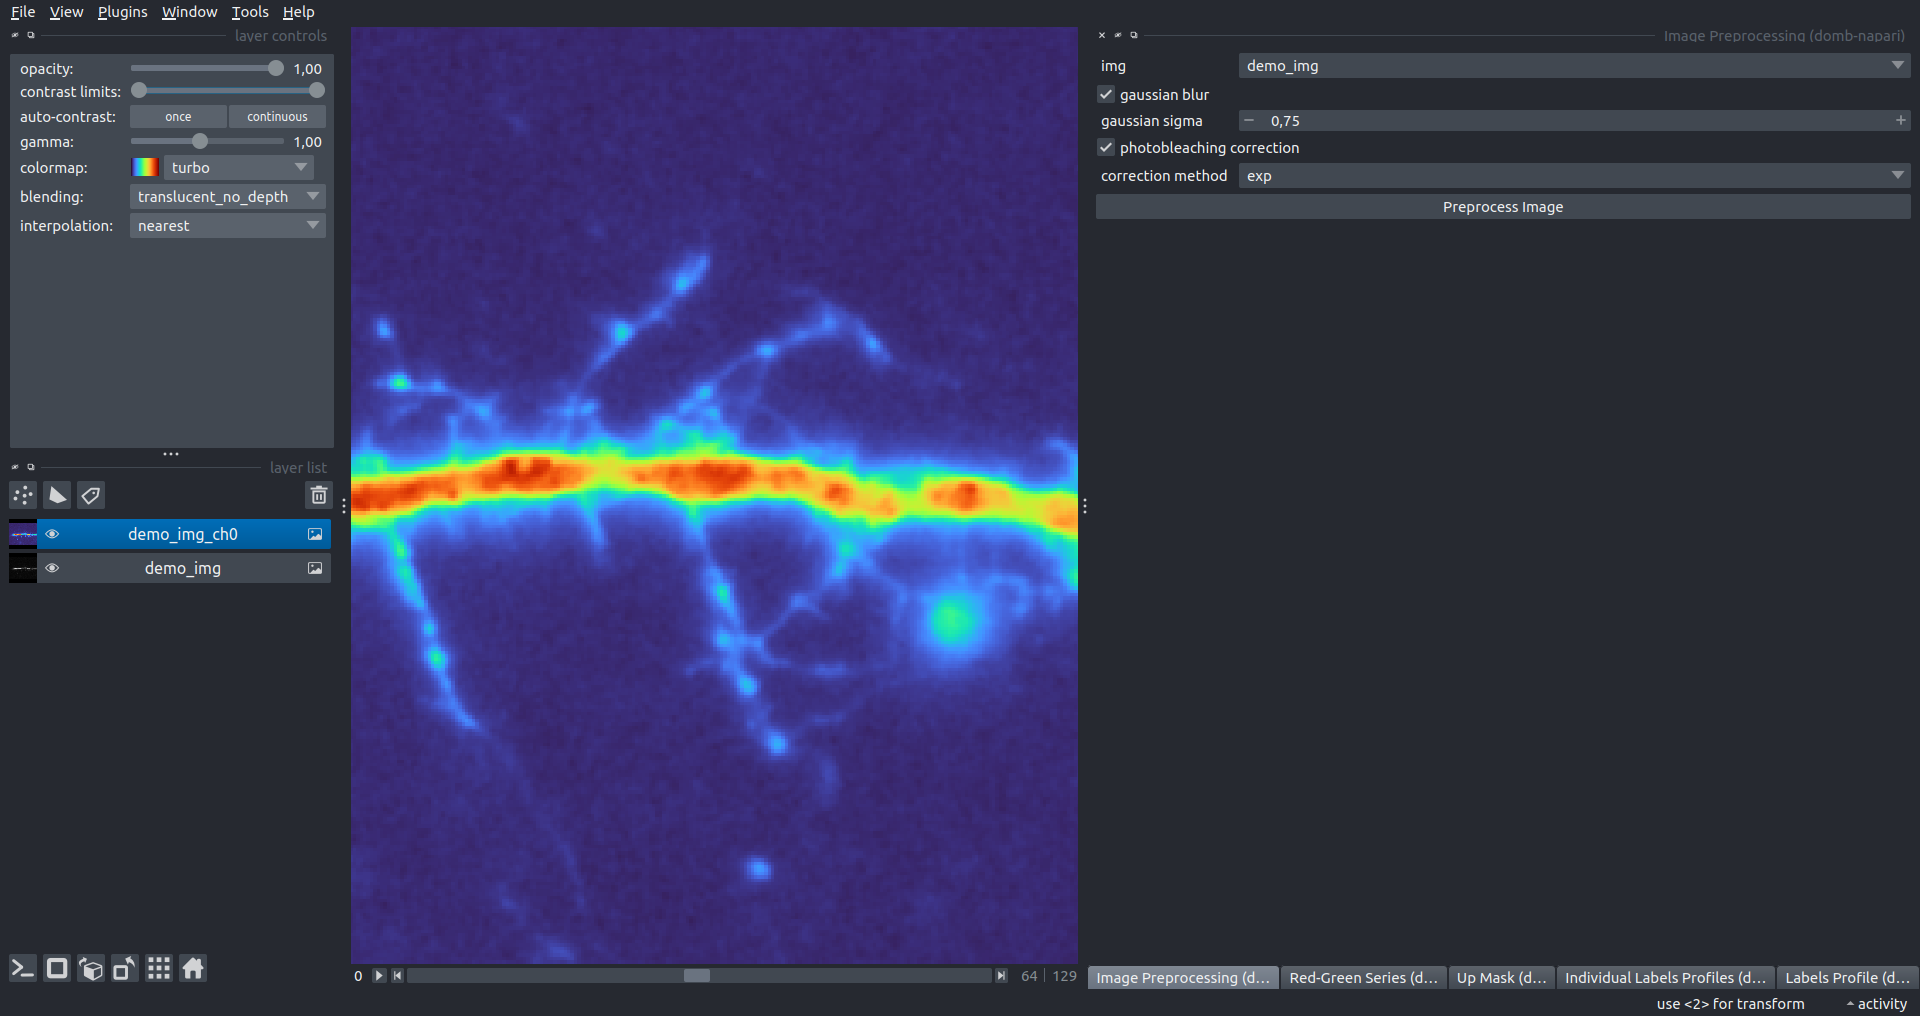
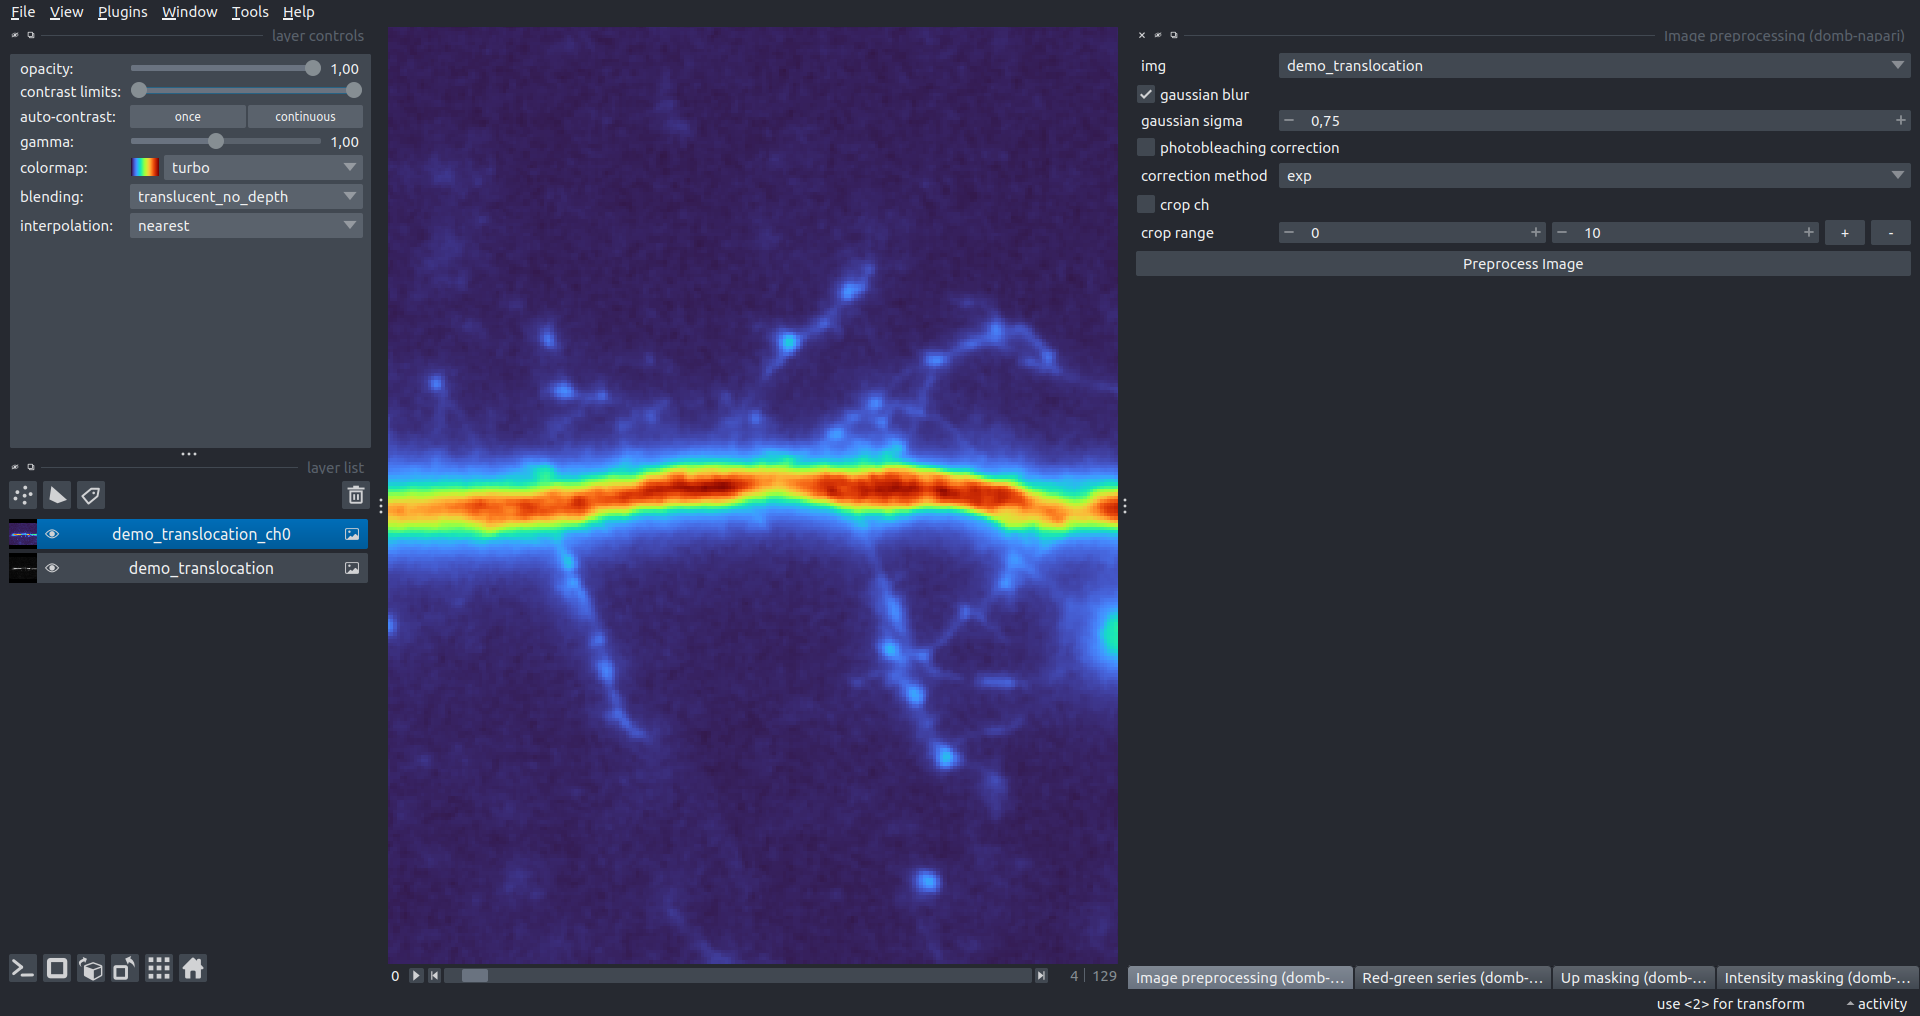
29.02.2024: REDME update

Changed region(s): [[0.0625, 0.0305, 1.0, 0.9764], [0.3438, 0.9459, 0.375, 0.9764], [0.0938, 0.122, 0.125, 0.1526]]

diff --git a/src/domb_napari/_widget.py b/src/domb_napari/_widget.py
@@ -166,7 +166,7 @@ def der_series(viewer: Viewer, img:Image,
             raise ValueError('The input image should have 3 dimensions!')
         img_name = img.name + '_red-green'
 
-        def _save_rg(img):
+        def _save_rg_img(img):
             try: 
                 viewer.layers[img_name].data = img
             except KeyError:
@@ -174,7 +174,7 @@ def der_series(viewer: Viewer, img:Image,
                 new_image = viewer.add_image(img, name=img_name, contrast_limits=[-c_lim, c_lim])
                 new_image.colormap = 'red-green', _red_green()
 
-        @thread_worker(connect={'yielded':_save_rg})
+        @thread_worker(connect={'yielded':_save_rg_img})
         def _der_series():
             ref_img = img.data
 
@@ -200,34 +200,46 @@ def der_series(viewer: Viewer, img:Image,
                insertion_threshold={"widget_type": "FloatSlider", 'max': 1},)  # insertions_threshold={'widget_type': 'FloatSlider', 'max': 1}
 def up_mask_calc(viewer: Viewer, img:Image, detection_img_index:int=2,
                  insertion_threshold:float=0.2,
+                 opening_footprint:int=0,
                  save_mask:bool=False):
     if input is not None:
         if img.data.ndim != 3:
-            raise ValueError('The input image should have 2 dimensions!')
-        input_img = img.data
-        detection_img = input_img[detection_img_index]
-        
-        up_mask = detection_img >= np.max(np.abs(detection_img)) * insertion_threshold
-        up_mask = morphology.opening(up_mask, footprint=morphology.disk(1))
-        up_mask = ndi.binary_fill_holes(up_mask)
-        up_mask = up_mask.astype(int)
-        up_labels = measure.label(up_mask)
-        print(f'Up mask shape: {up_mask.shape}, detected {np.max(up_labels)} labels')
-            
+            raise ValueError('The input image should have 3 dimensions!')
         labels_name = img.name + '_up-labels'
-        try:
-            viewer.layers[labels_name].data = up_labels
-        except KeyError:
-            viewer.add_labels(up_labels, name=labels_name, opacity=0.6)
+        mask_name = img.name + '_up-mask'
 
-        if save_mask:
-            mask_name = img.name + '_up-mask'
+        def _save_up_labels(params):
+            lab = params[0]
+            name = params[1]
             try:
-                viewer.layers[mask_name].data = up_mask
+                viewer.layers[name].data = lab
             except KeyError:
-                viewer.add_labels(up_mask, name=mask_name,
-                                num_colors=1, color={1:(255,0,0,255)},
-                                opacity=0.6)
+                new_labels = viewer.add_labels(lab, name=name, opacity=1)
+                new_labels.contour = 1
+
+        @thread_worker(connect={'yielded':_save_up_labels})
+        def _up_mask_calc():
+            input_img = img.data
+            detection_img = input_img[detection_img_index]
+            
+            up_mask = detection_img >= np.max(np.abs(detection_img)) * insertion_threshold
+            up_mask = morphology.erosion(up_mask, footprint=morphology.disk(2))
+            up_mask = morphology.dilation(up_mask, footprint=morphology.disk(1))
+            up_mask = ndi.binary_fill_holes(up_mask)
+            up_mask = up_mask.astype(int)
+
+            if opening_footprint != 0:
+                up_mask = morphology.opening(up_mask, footprint=morphology.disk(opening_footprint))
+                up_mask = morphology.dilation(up_mask, footprint=morphology.disk(1))
+
+            up_labels = measure.label(up_mask)
+            show_info(f'{img.name}: detected {np.max(up_labels)} labels')
+
+            yield (up_labels, labels_name)
+            if save_mask:
+                yield (up_mask, mask_name)
+
+        _up_mask_calc()                
 
 
 @magic_factory(call_button='Build Mask',
@@ -235,56 +247,62 @@ def up_mask_calc(viewer: Viewer, img:Image, detection_img_index:int=2,
 def mask_calc(viewer: Viewer, img:Image, detection_frame_index:int=2,
               masking_mode:str='up',
               up_threshold:float=0.2,
-              down_threshold:float=-0.1):
+              down_threshold:float=-0.9,
+              opening_footprint:int=0):
     if input is not None:
         if img.data.ndim != 3:
             raise ValueError('The input image should have 3 dimensions!')
-        input_img = img.data
-        detection_img = input_img[detection_frame_index]
 
         if masking_mode == 'up':
-            mask = detection_img >= np.max(np.abs(detection_img)) * up_threshold
             labels_name = img.name + '_up-labels'
-            # mask_name = img.name + '_up-mask'
         elif masking_mode == 'down':        
-            mask = detection_img <= np.max(np.abs(detection_img)) * down_threshold
             labels_name = img.name + '_down-labels'
-            # mask_name = img.name + '_down-mask'
 
-        mask = morphology.opening(mask, footprint=morphology.disk(3))
-        mask = ndi.binary_fill_holes(mask)
-        mask = mask.astype(int)
-        labels = measure.label(mask)
-
-        mask_info = f'{img.name}: detected {np.max(labels)} labels'
-        print(mask_info)
-        show_info(mask_info)
-            
-        try:
-            viewer.layers[labels_name].data = labels
-        except KeyError:
-            viewer.add_labels(labels, name=labels_name, opacity=0.6)
-
-        if save_mask:
+        def _save_rg_labels(params):
+            lab = params[0]
+            name = params[1]
             try:
-                viewer.layers[mask_name].data = mask
+                viewer.layers[name].data = lab
             except KeyError:
-                viewer.add_labels(mask, name=mask_name,
-                                num_colors=1, color={1:(255,0,0,255)},
-                                opacity=0.6)
+                new_labels = viewer.add_labels(lab, name=labels_name, opacity=1)
+                new_labels.contour = 1
 
+        @thread_worker(connect={'yielded':_save_rg_labels})
+        def _mask_calc():
+            input_img = img.data
+            detection_img = input_img[detection_frame_index]
+
+            if masking_mode == 'up':
+                mask = detection_img >= np.max(np.abs(detection_img)) * up_threshold
+            elif masking_mode == 'down':        
+                mask = detection_img <= np.max(np.abs(detection_img)) * down_threshold
+
+            mask = morphology.erosion(mask, footprint=morphology.disk(2))
+            mask = morphology.dilation(mask, footprint=morphology.disk(1))
+            mask = ndi.binary_fill_holes(mask)
+            mask = mask.astype(int)
+
+            if opening_footprint != 0:
+                mask = morphology.opening(mask, footprint=morphology.disk(opening_footprint))
+                mask = morphology.dilation(mask, footprint=morphology.disk(1))
+
+            labels = measure.label(mask)
+            show_info(f'{img.name}: detected {np.max(labels)} "{masking_mode}" labels')
+
+            yield (labels, labels_name)
+
+        _mask_calc()
+            
 
 @magic_factory(call_button='Build Profiles',
                saving_path={'mode': 'd'})
 def labels_profile_line(viewer: Viewer, img:Image, labels:Labels,
-                        time_scale:float=2.0,
-                        raw_intensity:bool=True,
+                        time_scale:float=5.0,
+                        absolute_intensity:bool=True,
                         ΔF_win:int=5,
-                        min_amplitude:float=0.0,
-                        max_amplitude:float=5.0,
-                        frame_crop:bool=False,
-                        start_frame:int=0,
-                        stop_frame:int=10,
+                        ΔF_aplitude_lim:list=[10.0, 10.0],
+                        profiles_crop:bool=False,
+                        profiles_range:list=[0,10],
                         save_data_frame:bool=False,
                         saving_path:pathlib.Path = os.getcwd()):
     if input is not None:
@@ -298,23 +316,14 @@ def labels_profile_line(viewer: Viewer, img:Image, labels:Labels,
         time_line = np.linspace(0, input_img.shape[0]*time_scale, \
                                 num=input_img.shape[0])
 
-        if frame_crop:
-            profile_dF_fin = profile_dF[start_frame:stop_frame] 
-            profile_raw_fin = profile_raw[start_frame:stop_frame]
-            time_line_fin = time_line[start_frame:stop_frame]
-        else:
-            profile_dF_fin = np.copy(profile_dF)
-            profile_raw_fin = np.copy(profile_raw)
-            time_line_fin = np.copy(time_line)
-
-        if raw_intensity:
-            profile_to_plot = profile_raw_fin
+        if absolute_intensity:
+            profile_to_plot = profile_raw
             ylab = 'Intensity, a.u.'
-            df_name = df_name + '_raw'
+            df_name = df_name + '_absolute'
         else:
-            profile_to_plot = profile_dF_fin
+            profile_to_plot = profile_dF
             ylab = 'ΔF/F0'
-            df_name = df_name + '_dF'
+            df_name = df_name + '_ΔF'
 
         if save_data_frame:
             import pandas as pd
@@ -325,29 +334,36 @@ def labels_profile_line(viewer: Viewer, img:Image, labels:Labels,
                                        'roi':np.full(profile_ROI.shape[0], num_ROI+1),
                                        'int':profile_ROI,
                                        'index': np.linspace(0, input_img.shape[0], num=input_img.shape[0], dtype=int),
-                                       'time':time_line_fin})
+                                       'time':time_line})
                 output_df = pd.concat([output_df.astype(df_ROI.dtypes),
                                        df_ROI.astype(output_df.dtypes)],
                                       ignore_index=True)
             output_df.to_csv(os.path.join(saving_path, df_name+'.csv'))
 
         # plotting
+        if profiles_crop:
+            profile_to_plot = profile_to_plot[:,profiles_range[0]:profiles_range[1]]
+            time_line = time_line[profiles_range[0]:profiles_range[1]]
+
         lab_colors = labels.get_color([prop['label'] for prop in measure.regionprops(label_image=input_labels)])
+
+        print(profile_to_plot.shape, time_line.shape, lab_colors.shape)
 
         mpl_fig = plt.figure()
         ax = mpl_fig.add_subplot(111)
         ax.spines['top'].set_visible(False)
         ax.spines['right'].set_visible(False)
-        for num_ROI, color in enumerate(lab_colors):  # range(profile_to_plot.shape[0]):
-            profile_ROI = profile_to_plot.T[num_ROI]
-            if raw_intensity:
-                ax.plot(time_line_fin, profile_ROI,
-                         alpha=0.35, marker='o', color=color)
-                plt_title = f'{img.name} individual labels raw profiles'
-            elif (profile_ROI.max() > min_amplitude) | (profile_ROI.max() < max_amplitude):
-                ax.plot(time_line_fin, profile_ROI,
-                         alpha=0.35, marker='o', color=color)
-                plt_title = f'{img.name} individual labels profiles (min={min_amplitude}, max={max_amplitude})'
+        for num_ROI, color in enumerate(lab_colors):
+            profile_ROI = profile_to_plot[num_ROI]
+            print(profile_ROI.shape, time_line.shape, color.shape)
+            if absolute_intensity:
+                ax.plot(time_line, profile_ROI,
+                         alpha=0.45, marker='o', color=color)
+                plt_title = f'{img.name} absolute intensity profiles, labels {labels.name}'
+            elif (profile_ROI.min() > -ΔF_aplitude_lim[0]) | (profile_ROI.max() < ΔF_aplitude_lim[1]):
+                ax.plot(time_line, profile_ROI,
+                         alpha=0.45, marker='o', color=color)
+                plt_title = f'{img.name} ΔF/F0 profiles (lim -{ΔF_aplitude_lim[0]}, {ΔF_aplitude_lim[1]}), labels {labels.name}'
             else:
                 continue
         ax.grid(color='grey', linewidth=.25)
@@ -361,7 +377,7 @@ def labels_profile_line(viewer: Viewer, img:Image, labels:Labels,
                stat_method={"choices": ['se', 'iqr', 'ci']},)
 def labels_profile_stat(viewer: Viewer, img_0:Image, img_1:Image, labels:Labels,
                         two_profiles:bool=False, 
-                        time_scale:float=2,
+                        time_scale:float=5.0,
                         ΔF_win:int=5,
                         stat_method:str='se'):
     if input is not None:

diff --git a/README.md b/README.md
@@ -27,6 +27,7 @@ Provides functions for preprocessing multi-channel fluorescence acquisitions:
 - If the input image has 4 dimensions (time, channel, x-axis, y-axis), channels will be split into individual 3 dimensions images (time, x-axis, y-axis) with the `_ch%index%` suffix.
 - If the `gaussian blur` option is selected, the image will be blurred with a Gaussian filter using sigma=`gaussian sigma`.
 - If the `photobleaching correction` option is selected, the image will undergo correction with exponential (method `exp`) or bi-exponential (method `bi_exp`) fitting.
+- If the `crop ch` option is selected, only a selected range of channel frames will be saved (corresponding to start and stop indexes from `crop range`).
 
 ![](https://raw.githubusercontent.com/wisstock/domb-napari/master/images/pic_0.png)
 
@@ -38,7 +39,6 @@ Parameters:
 - `left frames` - number of previous frames for pixel-wise averaging.
 - `space frames` - number of frames between the last left and first right frames.
 - `right frames` - number of subsequent frames for pixel-wise averaging.
-- `save mask series` - if selected, a series of labels will be created for each frame of the differential image with the threshold `insertion threshold`.
 
 ![](https://raw.githubusercontent.com/wisstock/domb-napari/master/images/pic_1.png)
 
@@ -49,6 +49,7 @@ Parameters:
 
 - `detection img index` - index of the frame from `-red-green` image used for insertion sites detection.
 - `insertion threshold` - threshold value for insertion site detection, intensity on selected `_red-green` frame normalized in -1 - 0 range.
+- `opening footprint` - footprint size in pixels for mask filtering with morphology opening (disabled if 0).
 - `save mask` - if selected, a total up mask (containing all ROIs) will be created with the `_up-mask` suffix.
 
 ![](https://raw.githubusercontent.com/wisstock/domb-napari/master/images/pic_2.png)
@@ -56,6 +57,7 @@ Parameters:
 ## Intensity masking
 Extension of __Up Masking__ widget. Detects regions with increasing (`masking mode` - `up`) or decreasing (`masking mode` - `down`) intensity in `-red-green` images. Returns a labels layer with either `_up-labels` or `_down-labels` suffix, depending on the mode.
 
+![](https://raw.githubusercontent.com/wisstock/domb-napari/master/images/pic_3.png)
 
 
 # Traffic monitoring with pH-sensitive tag
@@ -64,23 +66,25 @@ A collection of widgets designed for the analysis of image series containing the
 Insipred by [Fujii et al., 2017](https://pubmed.ncbi.nlm.nih.gov/28474392/) and [Sposini et al., 2020](https://www.nature.com/articles/s41596-020-0371-z).
 
 ## SEP image preprocessing
-Processes image series obtained through repetitive pH exchange methods (such as U-tube or ppH approaches). Frames with odd indexes, including index 0, are interpreted as images acquired at pH 7.0, representing total fluorescence intensity (saved with the suffix `_total`). Even frames are interpreted as images obtained at acidic pH (5.5-6.0), representing intracellular fluorescence only (saved with the suffix `_intra`).
+Processes image series obtained through repetitive pH exchange methods (such as U-tube or ppH approaches). `pH 1st frame` option indicates the 1st frame pH. By default frames with odd indexes, including index 0, are interpreted as images acquired at pH 7.0, representing total fluorescence intensity (saved with the suffix `_total`). Even frames are interpreted as images obtained at acidic pH (5.5-6.0), representing intracellular fluorescence only (saved with the suffix `_intra`).
 
 If `calc surface img` is selected, an additional total fluorescence image with subtracted intracellular intensity will be saved as the cell surface fluorescence fraction (suffix `_surface`). The input image should be a 3-dimensional single-channel time-lapse.
+
+The `calc projections` option allows obtaining individual pH series projections (pixel-wise series MIP - pixel-wise series average) for the detection of individual exo/endocytosis events.
 
 
 
 # Intensty profiles building and data frame saving
 ## Individual labels profiles
-Builds a plot with mean intensity profiles for each ROI in `labels` using absolute intensity (if `raw intensity` is selected) or relative intensities (ΔF/F0).
+Builds a plot with mean intensity profiles for each ROI in `labels` using absolute intensity (if `absolute intensity` is selected) or relative intensities (ΔF/F0).
 
 The `time scale` sets the number of seconds between frames for x-axis scaling.
 
-The baseline intensity for ΔF/F0 profiles is estimated as the mean intensity of the initial profile points (`ΔF win`).
+The baseline intensity for ΔF/F0 profiles is estimated as the mean intensity of the initial profile points (`ΔF win`). You could filter ROIs by minimum and maximum ΔF/F0 amplitudes with the `ΔF aplitude lim` option.
 
-Filters ROIs by minimum (`min amplitude`) and maximum (`max amplitude`) intensity amplitudes.
+_Note: amplitude filtering working with ΔF/F0 profiles only._
 
-_Note: Intensity filtering is most relevant for ΔF/F0 profiles._
+If the `profiles crop` option is selected, only a selected range of intensity profiles indexes will be plotted (corresponding to start and stop indexes from `profiles range`).
 
 Additionally, you can save ROI intensity profiles as .csv using the `save data frame` option and specifying the `saving path`. The output data frames `%img_name%_lab_prof.csv` will contain the following columns:
 
@@ -90,19 +94,22 @@ Additionally, you can save ROI intensity profiles as .csv using the `save data f
 - __index__ - frame index
 - __time__ - frame time point according to the `time scale`.
 
-_Note: The data frame will contain information for all ROIs; filtering options pertain to plotting only._
+_Note: The data frame will contain information for all ROIs; amplitude filtering and crop options pertain to plotting only._
 
-![](https://raw.githubusercontent.com/wisstock/domb-napari/master/images/pic_3.png)
+Absolute intensity         |  ΔF/F0
+:-------------------------:|:-------------------------:
+![](https://raw.githubusercontent.com/wisstock/domb-napari/master/images/pic_4.png)  |  ![](https://raw.githubusercontent.com/wisstock/domb-napari/master/images/pic_5.png)
 
-## Labels profile
+
+## Labels stat profiles
 Builds a plot with the averaged intensity of all ROIs in `labels`. Can take two images (`img 0` and `img 1`) as input if `two profiles` are selected.
 
 The `time scale` and `ΔF win` are the same as in the __Individual Labels Profiles__.
 
-The `stat method` provides methods for calculating intensity errors:
+The `stat method` provides methods for estimation intensity and errors:
 
 - `se` - standard error of mean.
 - `iqr` - interquartile range.
 - `ci` - 95% confidence interval for t-distribution.
 
-![](https://raw.githubusercontent.com/wisstock/domb-napari/master/images/pic_4.png)
+![](https://raw.githubusercontent.com/wisstock/domb-napari/master/images/pic_6.png)
